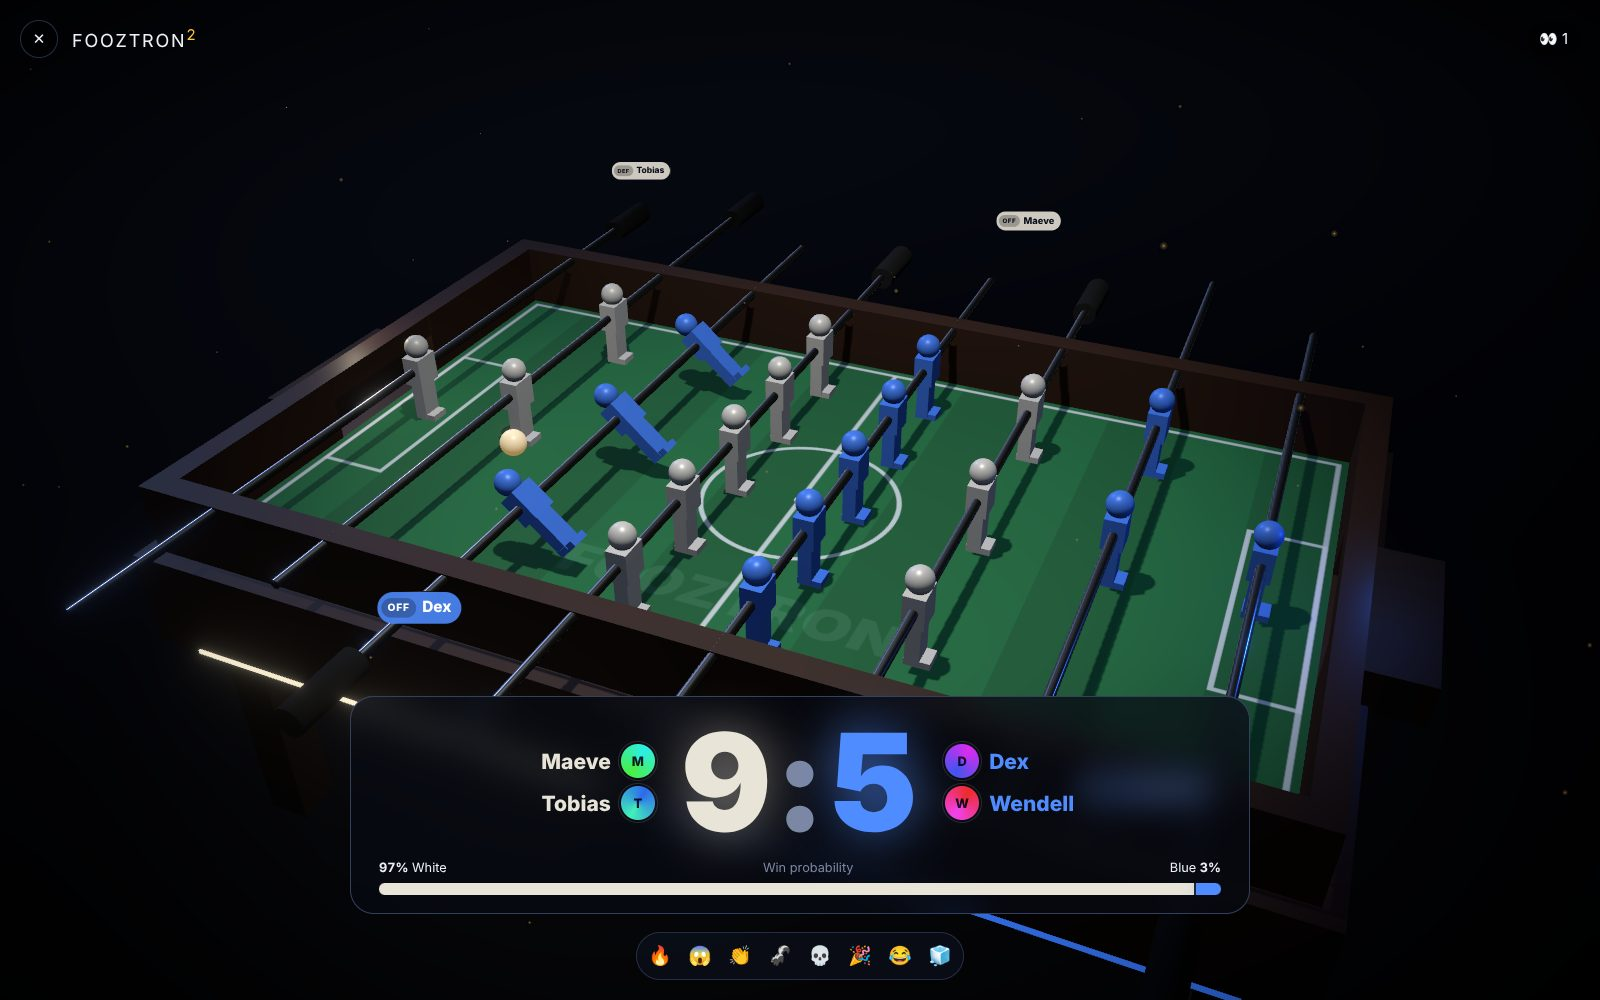
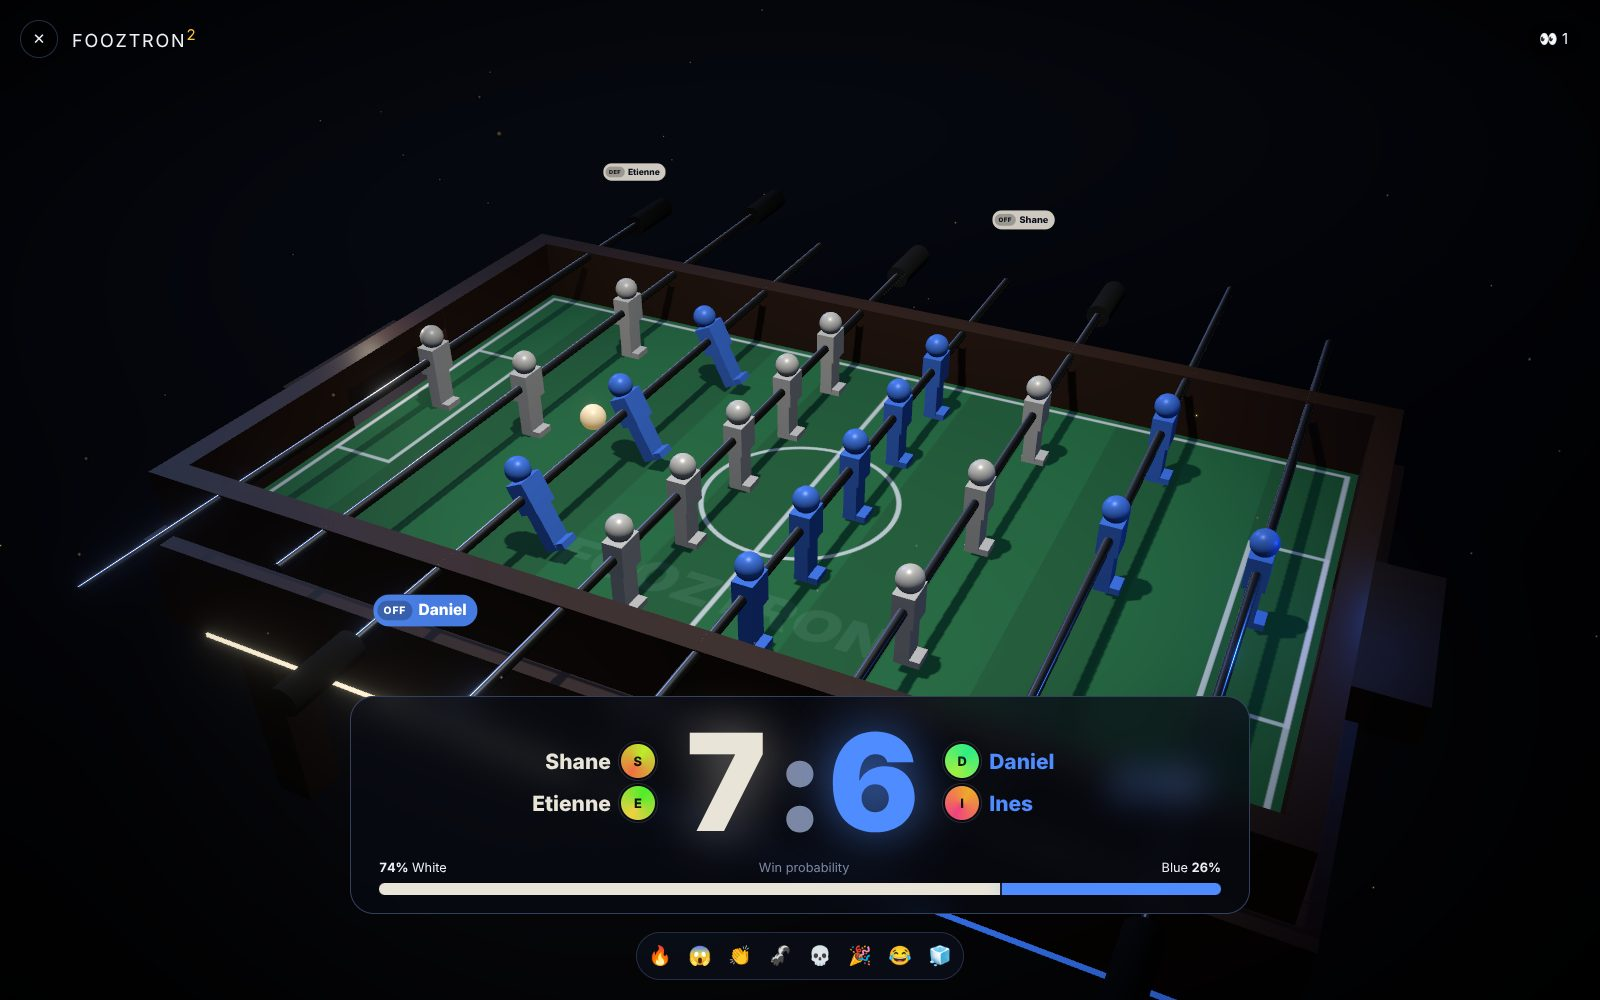
Use team roster for demo data
Claude-Session: https://claude.ai/code/session_01EA3Ghm4L9vKV6ysyMcCJYH

diff --git a/src/server/simulate.ts b/src/server/simulate.ts
@@ -7,9 +7,9 @@ import type { Lineup, NewEvent, Rod, Side } from '../shared/types.ts';
 import { POSITIONS, WINNING_SCORE } from '../shared/types.ts';
 
 export const DEFAULT_ROSTER = [
-  'Rodney',
-  'Priya',
-  'Gus',
+  'Shane',
+  'Etienne',
+  'Daniel',
   'Maeve',
   'Tobias',
   'Yuki',
